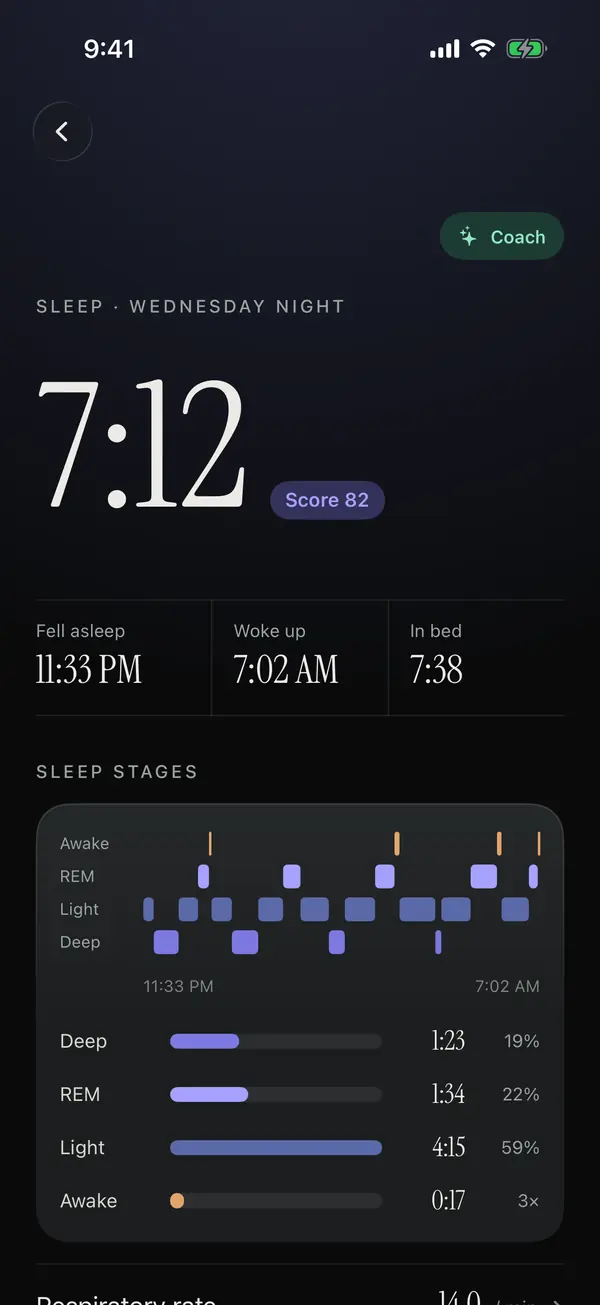
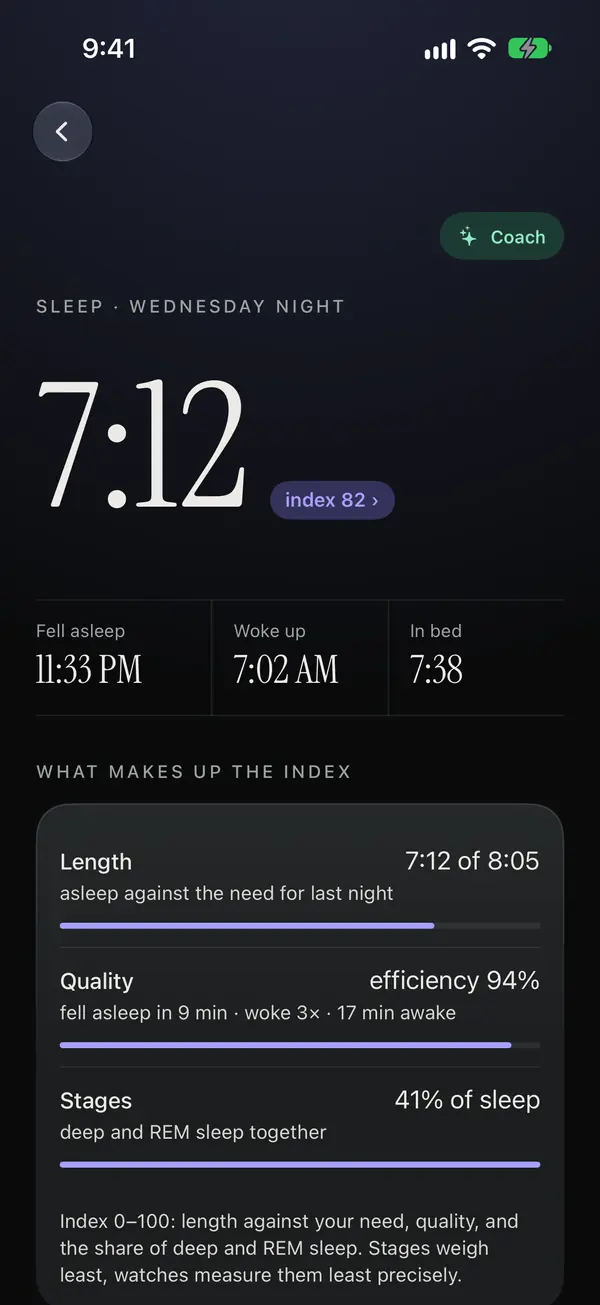
Website: sleep screenshots from this PR's sample day; the sleep need is the third shot now
Claude-Session: https://claude.ai/code/session_01GJwnsdkHNJGQ8pwHkipBYu

diff --git a/src/site-pages.js b/src/site-pages.js
@@ -787,7 +787,7 @@ export function overviewPage(request) {
     'training-rest': 'Aurin’s rest timer counting down between sets, with the next exercise',
     'food-day': 'Aurin’s food day: a calorie target that moves with training, and the meals logged',
     'food-add': 'Adding food in Aurin: a photo of the plate, a barcode or a search',
-    sleep: 'A night in Aurin: deep, REM and light sleep, when you fell asleep and woke up',
+    sleep: 'A night in Aurin: 7:12 asleep, sleep index 82 and what makes it up: length, quality and stages',
     'sleep-need': 'Aurin’s sleep need for tonight and what made it grow',
     bedtime: 'Aurin’s bedtime dial: the moon for bedtime, the sun for the alarm',
     'bedtime-goal': 'Picking tonight’s sleep in Aurin: catch up, as usual or at least seven hours',
